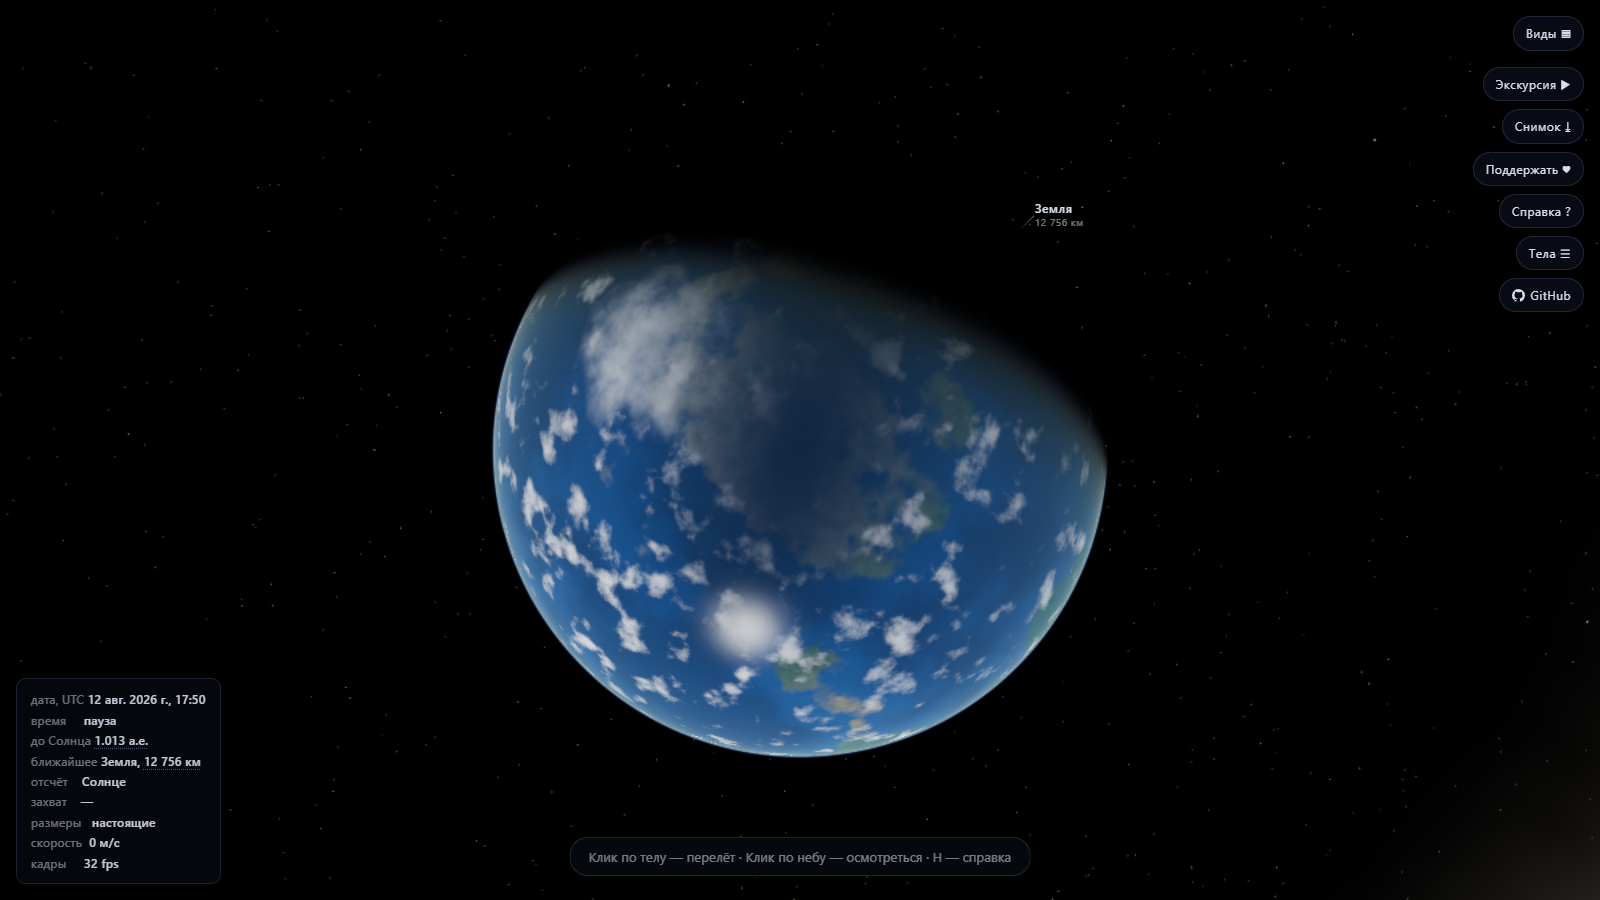
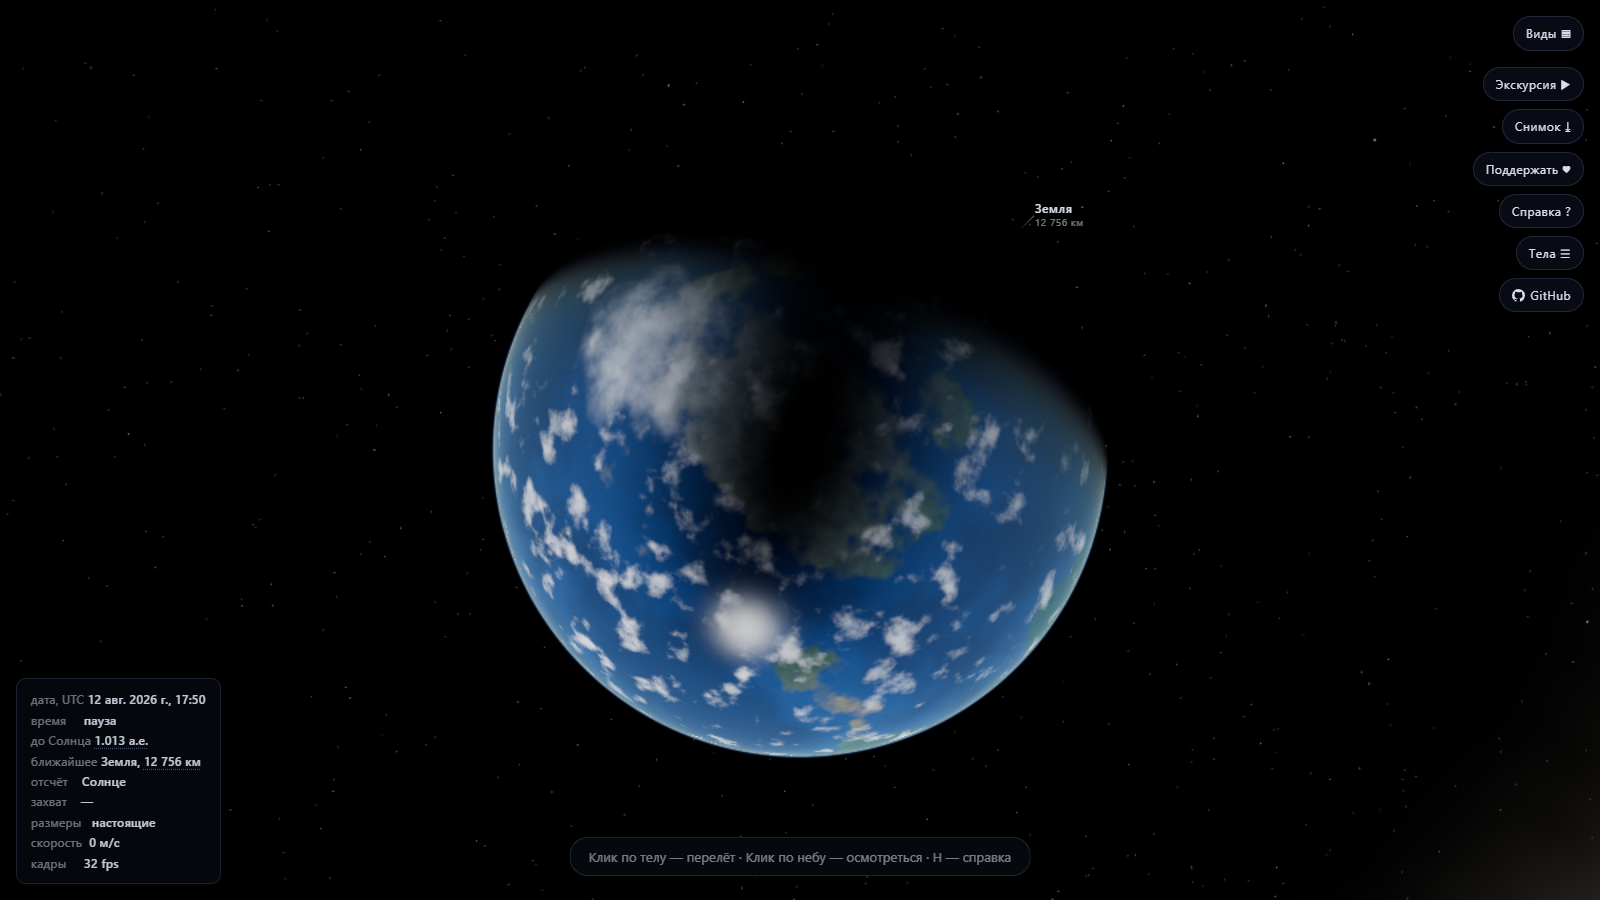
Версия 0.10.0 (#79)
Три изменения в сцене и одно в проверках.

У Земли настоящий слой рассеяния вместо подсветки лимба. Вдоль луча зрения
берётся десяток точек, в каждой считается, сколько света дошло до неё от Солнца
сквозь воздух и сколько из рассеянного дойдёт до камеры. Коэффициенты
измеренные, в обратных километрах, и синий рассеивается впятеро сильнее
красного — из одного этого числа получаются и голубое небо, и красный закат: у
терминатора луч идёт сквозь толщу воздуха по касательной и проходит в сорок раз
больший путь. Прежний ободок по краю диска не знал ни того, где Солнце, ни того,
какой длины путь прошёл луч, и был одного цвета со всех сторон.

Тень затмения ложится и на воздух. Слой рассеяния сначала об этом не знал:
воздух над полосой затмения светился в полную силу, хотя Солнца над ним нет, и
затменный кадр выходил вдвое светлее должного. Теперь слой считает ту же долю
закрытого солнечного диска и по тем же данным, что и поверхность под ним, —
тень на воздухе и тень на земле стали одной тенью.

Кольца с неосвещённой стороны просвечивают, а не тускнеют одинаково. Кольцо —
не поверхность, а слой обломков, и сквозь плотную полосу проходит меньше света,
чем сквозь разреженную. Рисунок колец от этого выворачивается негативом:
широкое кольцо B, самое яркое на свету, с изнанки становится темнее кольца C и
деления Кассини — ровно так они меняются местами на снимках «Кассини». Раньше
теневая сторона повторяла освещённую, только тусклее.
[…]

Changed region(s): [[0.4062, 0.3111, 0.5938, 0.6844]]

diff --git a/ROADMAP.md b/ROADMAP.md
@@ -32,10 +32,16 @@
 - Процедурные поверхности всех тел: полосы и Красное пятно Юпитера, кратеры и
   моря Луны, шапки Марса, океаны с облаками у Земли, серные равнины Ио.
 - Кольца Сатурна и Урана с настоящей структурой, тенью планеты на кольцах и
-  тенью колец на планете.
+  тенью колец на планете; с неосвещённой стороны кольцо не отражает, а
+  просвечивает, и рисунок полос выворачивается негативом.
+- Атмосфера Земли: настоящий слой рассеяния вместо подсветки лимба — голубое
+  небо, красный терминатор и свечение за краем диска из одного расчёта.
+- Затмения: тени тел друг на друге по перекрытию видимых дисков — полутень,
+  полная фаза, кольцеобразное затмение; тень ложится и на воздух, и на землю.
 - Спутники: Луна, Ио, Европа, Ганимед, Каллисто, Титан — с синхронным вращением
   и орбитами в плоскости экватора планеты.
-- Небо по каталогу HYG: 8920 звёзд ярче 6.5ᵐ.
+- Небо по каталогу HYG: 8920 звёзд ярче 6.5ᵐ, Млечный Путь по галактическим
+  координатам, линии двенадцати созвездий и имена сорока звёзд.
 - Физическое освещение: падение по 1/r², адаптивная экспозиция по расстоянию и
   по яркости кадра, отражённый свет (пепельный свет Луны).
 - Перелёты кликом по телу, по подписи и из списка, подсветка тела под курсором,
@@ -44,11 +50,16 @@
 - Линии орбит: гелиоцентрические, Луны и спутников гигантов.
 - Управление временем: пауза, лестница скоростей клавишами и ползунком, поле
   ввода даты со стрелками на сутки и на год, кнопка «сейчас».
-- Экскурсия по одиннадцати телам с рассказом на каждой остановке.
+- Экскурсия по одиннадцати телам с рассказом на каждой остановке; стрелки и
+  свайп переводят по остановкам, не досматривая текущую.
+- Захват цели клавишей `F`: тело держится в центре кадра, пока рулями ведут
+  камеру.
 - Готовые виды одним щелчком: Земля и Луна, галилеевы спутники, кольца с ребра,
-  пепельный свет, внутренняя система сверху, наклон оси Урана.
+  солнечное и лунное затмения, тень Ио на Юпитере, пепельный свет, внутренняя
+  система сверху, наклон оси Урана.
 - Состояние сцены в адресе страницы: дата, тело, положение камеры и скорость
   времени; ссылкой можно поделиться и вернуться к тому же кадру.
 - Снимок кадра в PNG без интерфейса — кнопкой или клавишей `K`.
-- 246 юнит-тестов и 49 сквозных, адаптивное качество, 130–144 fps.
-- Непрерывная интеграция, защита `main`, статический анализ, выкладка по тегу.
+- 293 юнит-теста и 71 сквозной, адаптивное качество, 130–144 fps.
+- Непрерывная интеграция с разделением сквозных тестов между тремя runner,
+  защита `main`, статический анализ, выкладка по тегу.
